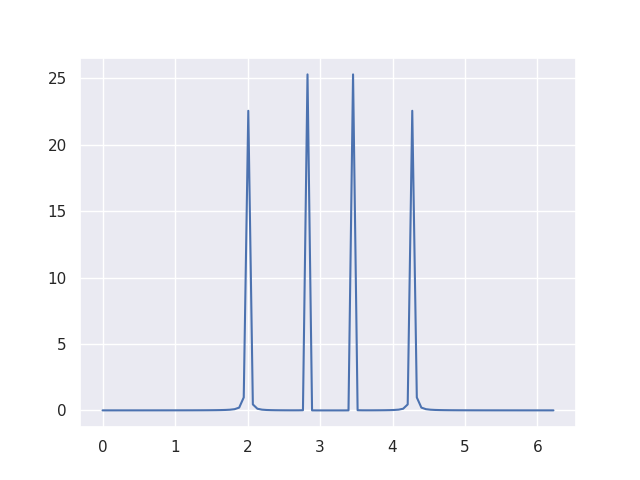
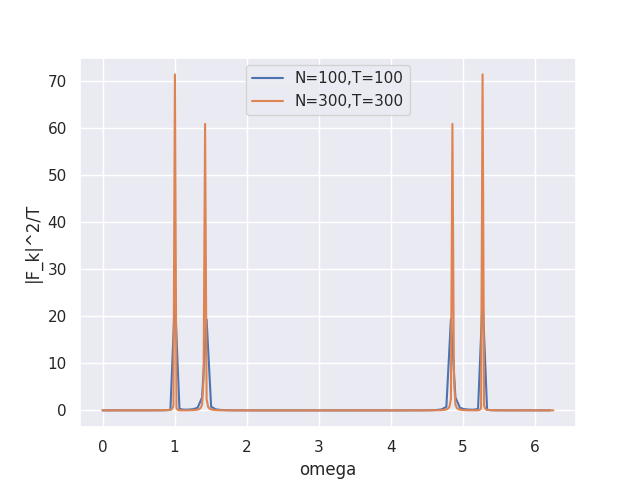
add : power spectralを複数

diff --git a/sampling_fourier.py b/sampling_fourier.py
@@ -11,7 +11,6 @@ def gen_data(theta):
 def power_spectral(t, n, f_n):
     f_k = []
     for idx in range(n):
-        print("idx", idx)
         curf = 0
         for i in range(n):
             curf += f_n[i] * np.exp(-1.0j * 2 * np.pi * idx * i / n)
@@ -22,15 +21,20 @@ def power_spectral(t, n, f_n):
     return f_k / t
 
 
-def plot_spectral(t, n):
+def plot_spectral(t_ls, n_ls):
     sns.set_theme()
-    theta = np.linspace(0, 2 * t, n + 1)
-    data = gen_data(theta)
-    power = power_spectral(t, n, data)
-    omega = [2 * np.pi * k / t for k in range(n)]
-    plt.plot(omega, power)
+    figure = plt.figure()
+    for t, n in zip(t_ls, n_ls):
+        theta = np.linspace(0, t, n)
+        data = gen_data(theta)
+        power = power_spectral(t, n, data)
+        omega = [2 * np.pi * k / t for k in range(n)]
+        plt.plot(omega, power, label="N={},T={}".format(n, t))
+    plt.xlabel("omega")
+    plt.ylabel("|F_k|^2/T")
+    plt.legend()
     plt.savefig("power.png")
 
 
 if __name__ == "__main__":
-    plot_spectral(100, 100)
+    plot_spectral([100, 300], [100, 300])
